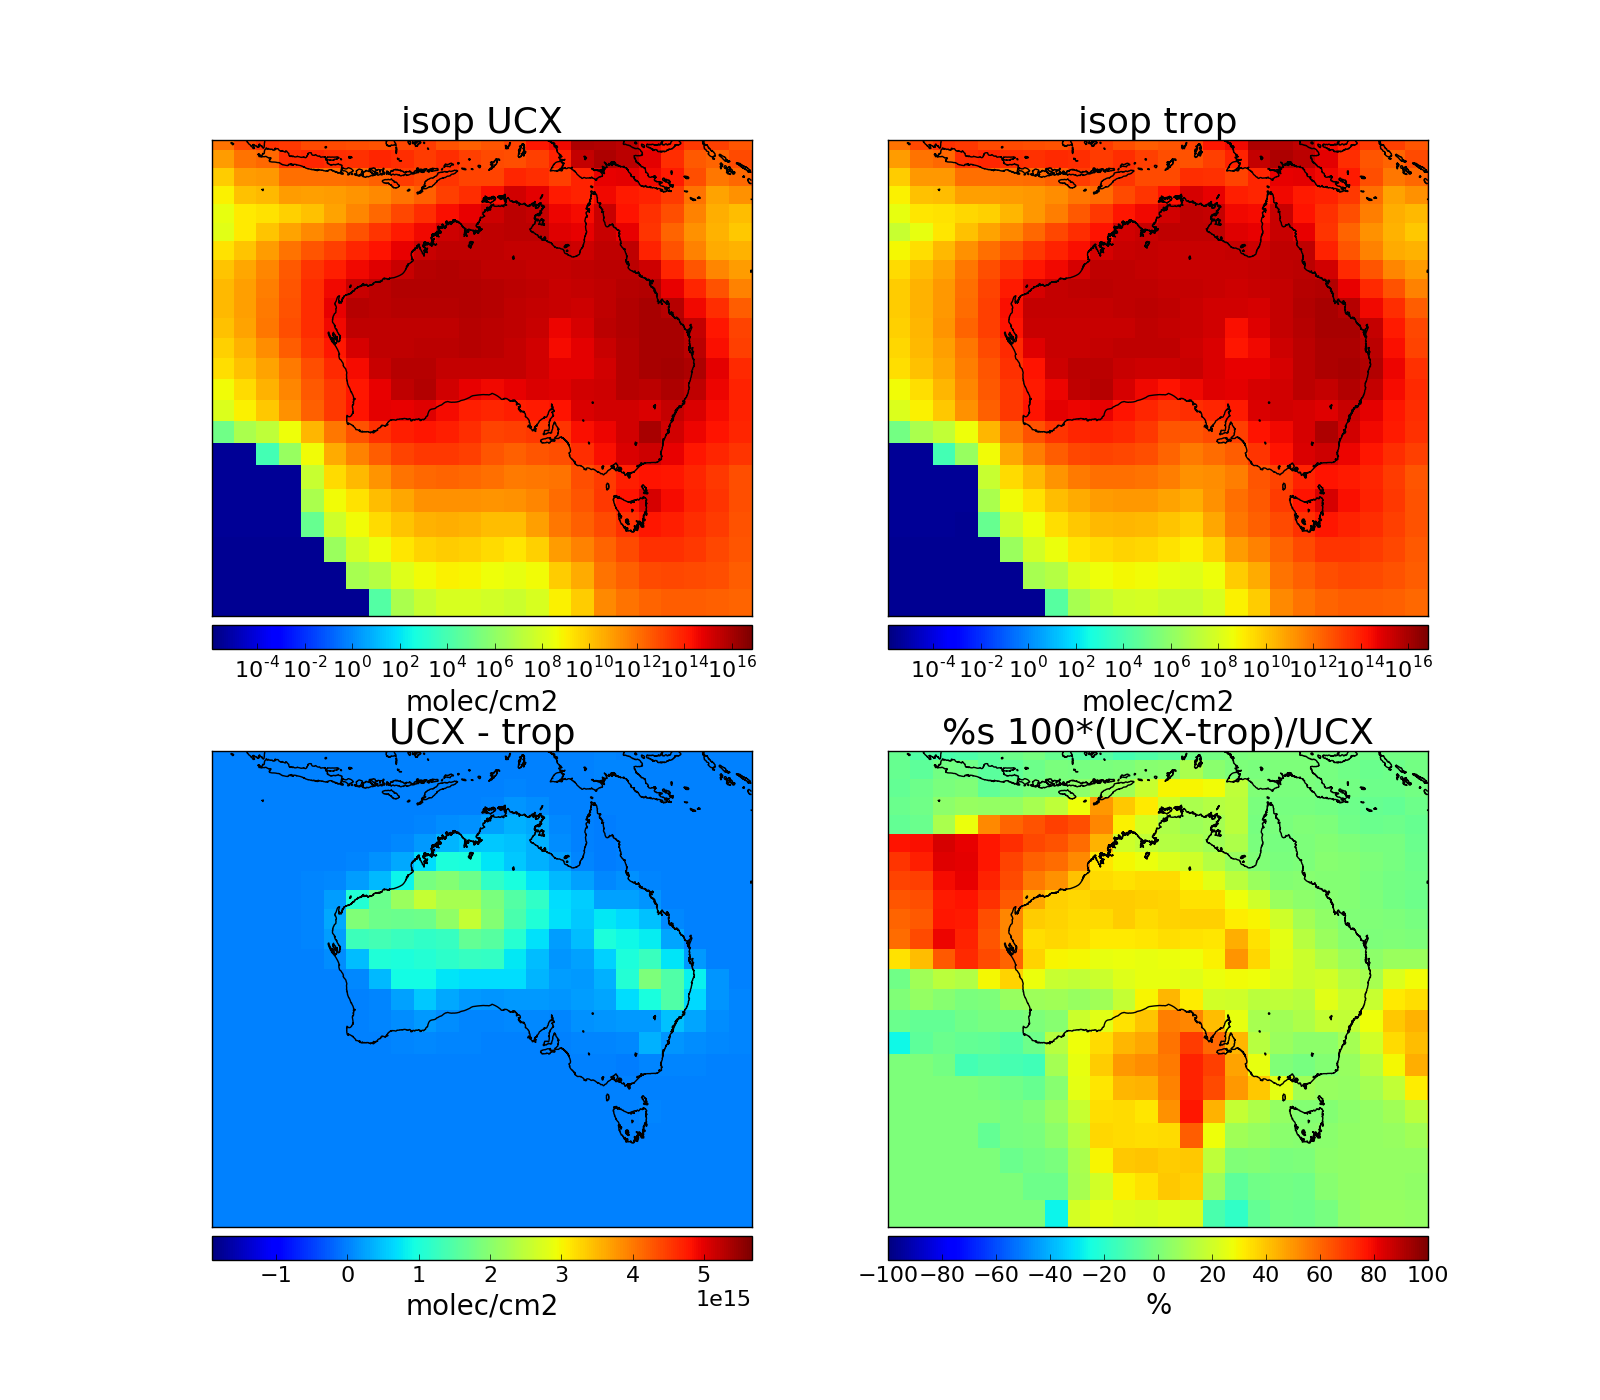
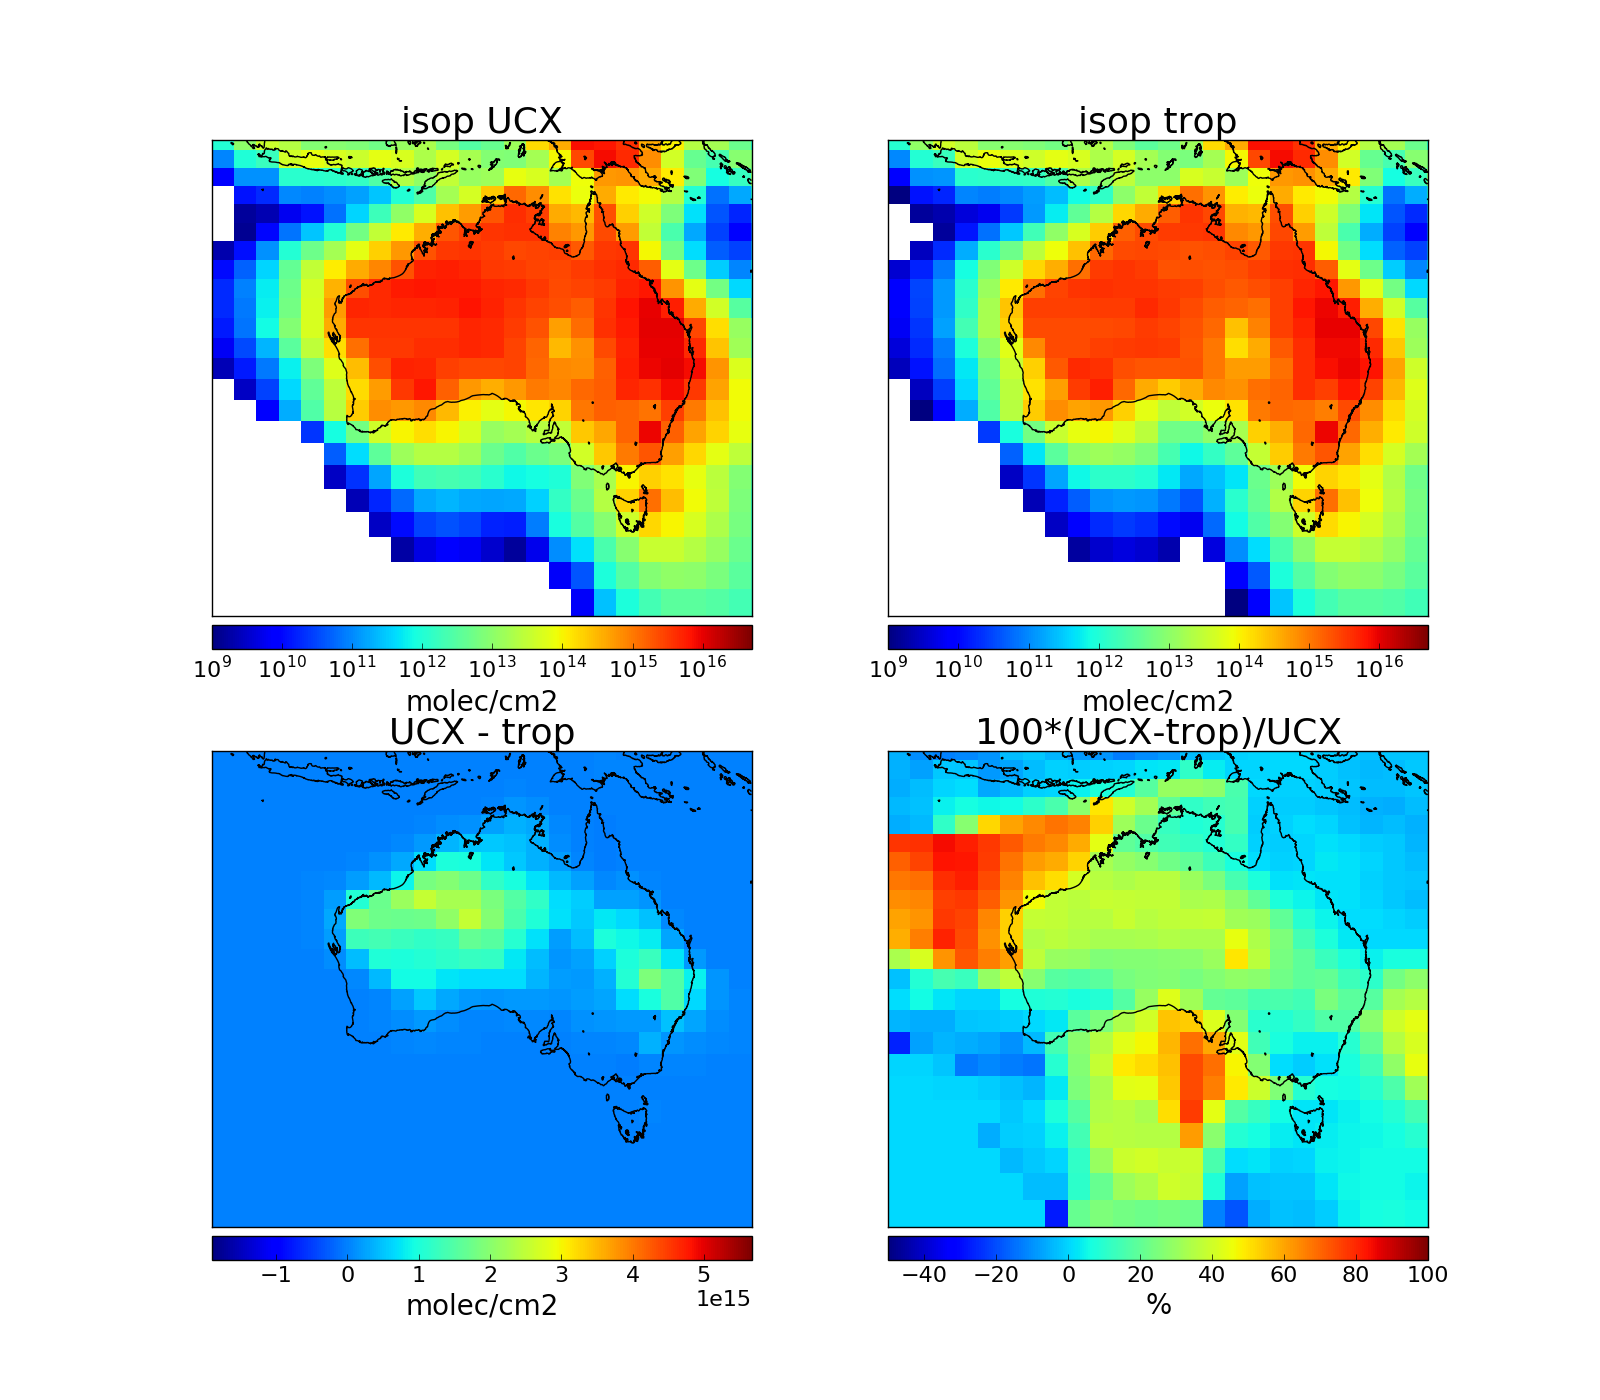
Updated limits for UCX vs Tropchem plots

diff --git a/GC_tests.py b/GC_tests.py
@@ -35,15 +35,23 @@ from JesseRegression import RMA
 
 def compare_tropcol_tc_ucx(date=datetime(2005,1,1)):
     ''' maps of UCX and tropchem tropospheric columns '''
+
+    # Read UCX and TC datasets
     ucx=GC_output(date,UCX=True)
     tc=GC_output(date,UCX=False)
     lats=tc.lats
     lons=tc.lons
+
+    # Get hcho and isop for comparisons
     keys=['hcho','isop']
     tc_trop_cols=tc.get_trop_columns(keys=keys)
     for k in keys:
         tc_trop_cols[k] = np.mean(tc_trop_cols[k], axis=2) # mean of last dim
     ucx_trop_cols=ucx.get_trop_columns(keys=keys)
+
+    # Set up limits
+    rlims={'hcho':(-20,20),'isop':(-50,100)}
+    alims={'hcho':(1e14,5e16),'isop':(1e9,5e16)}
 
     for ii,k in enumerate(keys):
         u=ucx_trop_cols[k]; t=tc_trop_cols[k]
@@ -52,25 +60,24 @@ def compare_tropcol_tc_ucx(date=datetime(2005,1,1)):
         print(" min    | %.3e     |   %.3e"%(np.min(u),np.min(t)))
         print(" max    | %.3e     |   %.3e"%(np.max(u),np.max(t)))
         print(" std    | %.3e     |   %.3e"%(np.std(u),np.std(t)))
+
         # Plot trop col differences for hcho
+        amin,amax = alims[k]
+        rmin,rmax = rlims[k]
         f,axes=plt.subplots(2,2,figsize=(16,14))
         plt.sca(axes[0,0])
-        pp.createmap(u,lats,lons,aus=True,clabel='molec/cm2',ptitle="%s UCX"%k)
+        pp.createmap(u,lats,lons,aus=True,clabel='molec/cm2',
+                     ptitle="%s UCX"%k, vmin=amin, vmax=amax)
         plt.sca(axes[0,1])
-        pp.createmap(t,lats,lons,aus=True,clabel='molec/cm2',ptitle="%s trop"%k)
+        pp.createmap(t,lats,lons,aus=True,clabel='molec/cm2',
+                     ptitle="%s trop"%k, vmin=amin, vmax=amax)
         plt.sca(axes[1,0])
-        pp.createmap(u-t,lats,lons,aus=True,clabel='molec/cm2',ptitle="UCX - trop",
-                    linear=True)
+        pp.createmap(u-t,lats,lons,aus=True,clabel='molec/cm2',
+                     ptitle="UCX - trop", linear=True)
         plt.sca(axes[1,1])
-        if k=='isop':
-            vmin=-100;vmax=100
-        if k=='hcho':
-            vmin=-20;vmax=20
-        pp.createmap((u-t)*100.0/u,lats,lons, vmin=vmin,vmax=vmax,aus=True,
-                    linear=True,clabel='%',ptitle="%s 100*(UCX-trop)/UCX",
+        pp.createmap((u-t)*100.0/u,lats,lons, vmin=rmin,vmax=rmax,aus=True,
+                    linear=True,clabel='%',ptitle="100*(UCX-trop)/UCX",
                     pname='Figs/GC/UCX_vs_tropchem_%s_%s'%(k,tc.dstr))
-
-
 
 def compare_surface_tc_ucx(date=datetime(2005,1,1)):
     ''' maps of UCX and tropchem surface HCHO'''
@@ -198,7 +205,7 @@ def isop_hcho_RMA(gc):
     plt.xlabel(r'E$_{isop}$ [atom$_C$ cm$^{-2}$ s$^{-1}$]')
     plt.ylabel(r'$\Omega_{HCHO}$ [molec$_{HCHO}$ cm$^{-2}$]')
     plt.title('Sample of regressions over Australia')
-    plt.legend(loc=0,fontsize=9) # show legend!
+    plt.legend(loc=0,fontsize=9) # show legend
     plt.savefig(pname1)
     print("Saved "+pname1)
     plt.close()
@@ -270,7 +277,7 @@ if __name__=='__main__':
 
     # scripts mapping stuff
     date=datetime(2005,1,1)
-    tc=GC_output(date,UCX=False)
-    E_isop_map(tc,aus=True)
-    E_isop_series(tc,aus=True)
-    isop_hcho_RMA(tc)
+    #tc=GC_output(date,UCX=False)
+    #E_isop_map(tc,aus=True)
+    #E_isop_series(tc,aus=True)
+    #isop_hcho_RMA(tc)
